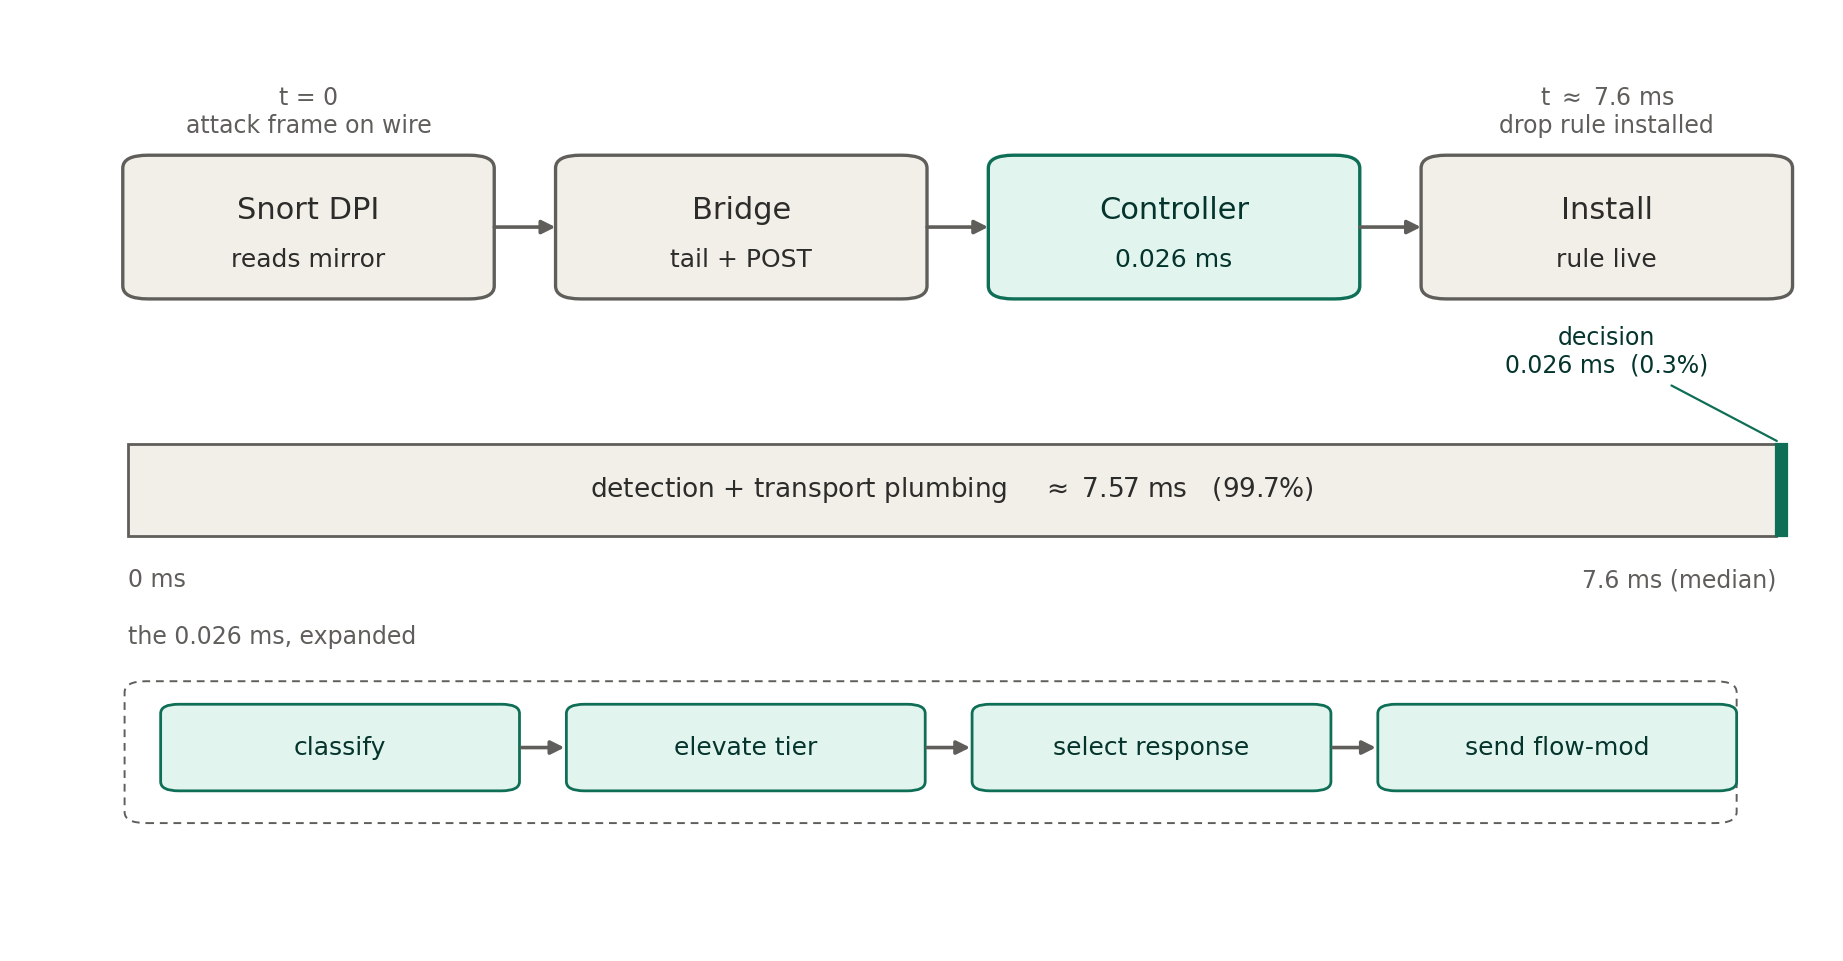
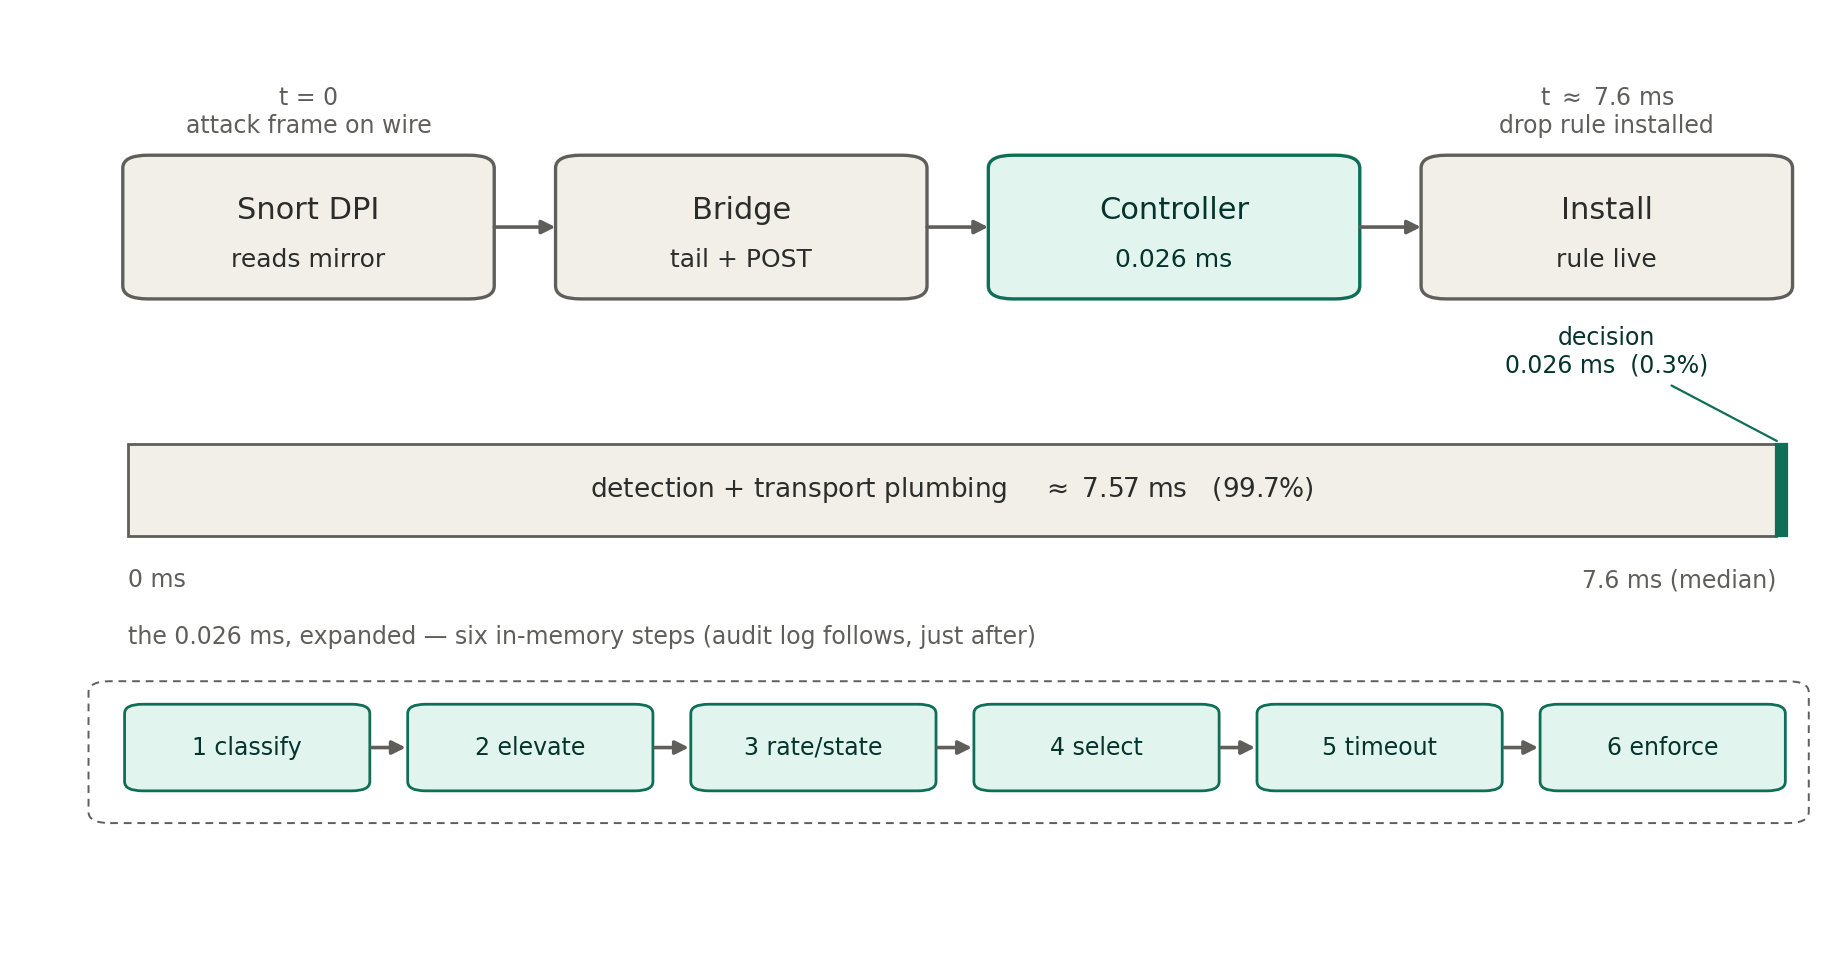
fig 4.8: expand the decision breakdown from 4 to the full 6 in-memory steps (classify, elevate, rate/state, select, timeout, enforce); note audit log follows the timer

diff --git a/report/figures/src/fig_reaction_window.py b/report/figures/src/fig_reaction_window.py
@@ -49,18 +49,20 @@ ax.annotate("decision\n0.026 ms  (0.3%)", xy=(97.7, yB+hB), xytext=(88, 64),
 ax.text(6, yB-3.5, "0 ms", ha="left", va="top", fontsize=8.5, color=GRY_E)
 ax.text(97.4, yB-3.5, "7.6 ms (median)", ha="right", va="top", fontsize=8.5, color=GRY_E)
 
-# --- Row C: the decision, expanded ---
-ax.text(6, 33, "the 0.026 ms, expanded", ha="left", va="center", fontsize=8.5, color=GRY_E)
-ax.add_patch(FancyBboxPatch((6, 13), 89, 15, boxstyle="round,pad=0.2,rounding_size=1.2",
+# --- Row C: the decision, expanded into its six in-memory steps ---
+ax.text(6, 33, "the 0.026 ms, expanded — six in-memory steps (audit log follows, just after)",
+        ha="left", va="center", fontsize=8.5, color=GRY_E)
+ax.add_patch(FancyBboxPatch((4, 13), 95, 15, boxstyle="round,pad=0.2,rounding_size=1.2",
                             fc="none", ec=GRY_E, lw=0.7, linestyle=(0,(4,3))))
-labels = ["classify", "elevate tier", "select response", "send flow-mod"]
-xs = [8, 30.5, 53, 75.5]; w = 19.5
+labels = ["1 classify", "2 elevate", "3 rate/state", "4 select", "5 timeout", "6 enforce"]
+w, gap, x0 = 13.2, 2.5, 6.0
+xs = [x0 + i*(w+gap) for i in range(6)]
 for x, lab in zip(xs, labels):
     ax.add_patch(FancyBboxPatch((x, 16.5), w, 9, boxstyle="round,pad=0.2,rounding_size=1.0",
                                 fc=TEAL_F, ec=TEAL_E, lw=1.0))
-    ax.text(x + w/2, 21, lab, ha="center", va="center", fontsize=9, color=TEAL_T)
-for x1, x2 in [(27.5,30.5),(50,53),(72.5,75.5)]:
-    arrow(x1, x2, 21)
+    ax.text(x + w/2, 21, lab, ha="center", va="center", fontsize=8.5, color=TEAL_T)
+for i in range(5):
+    arrow(xs[i] + w, xs[i+1], 21)
 
 fig.subplots_adjust(left=0.01, right=0.99, top=0.99, bottom=0.01)
 fig.savefig("fig_reaction_window.png", dpi=200, bbox_inches="tight", facecolor="white")
